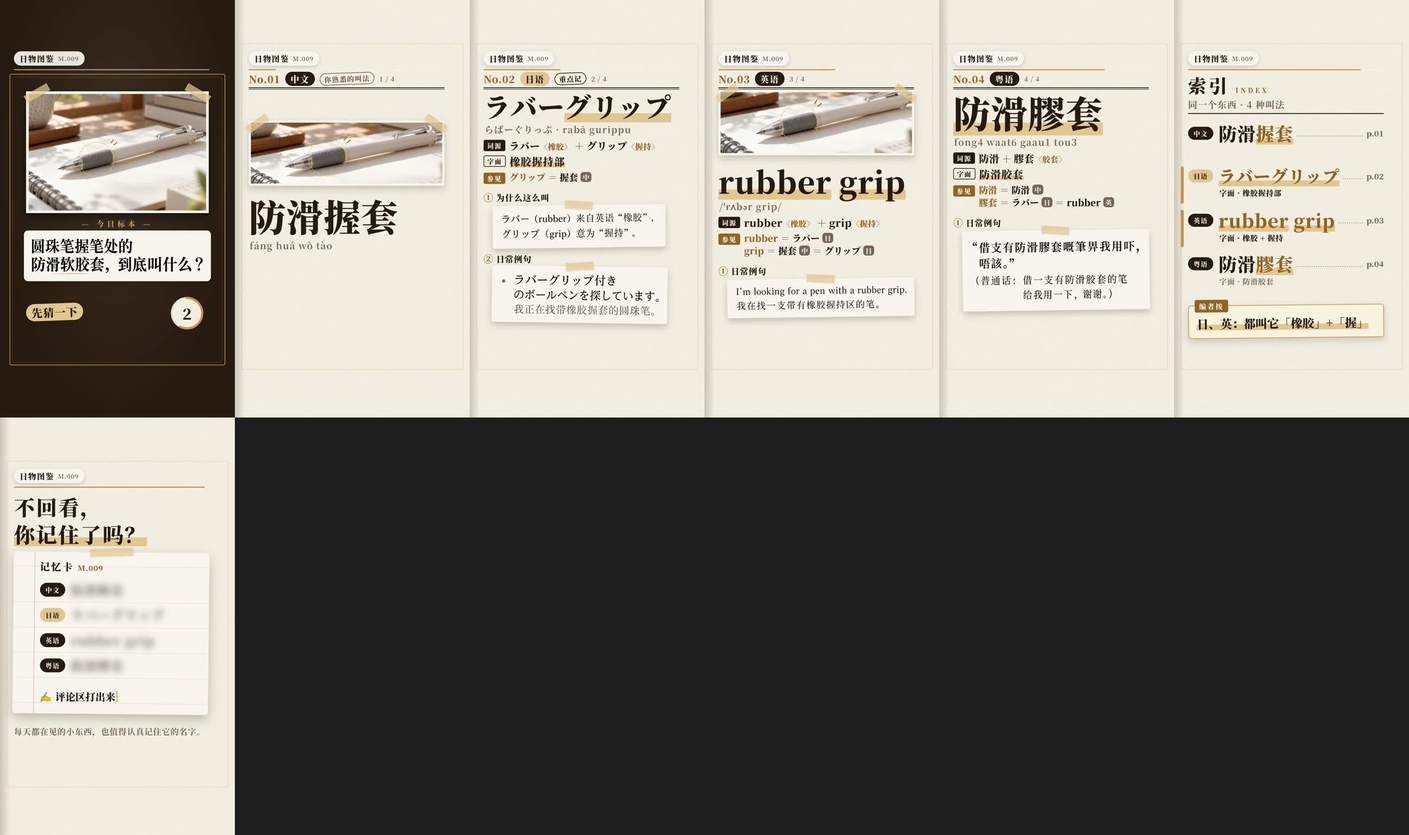
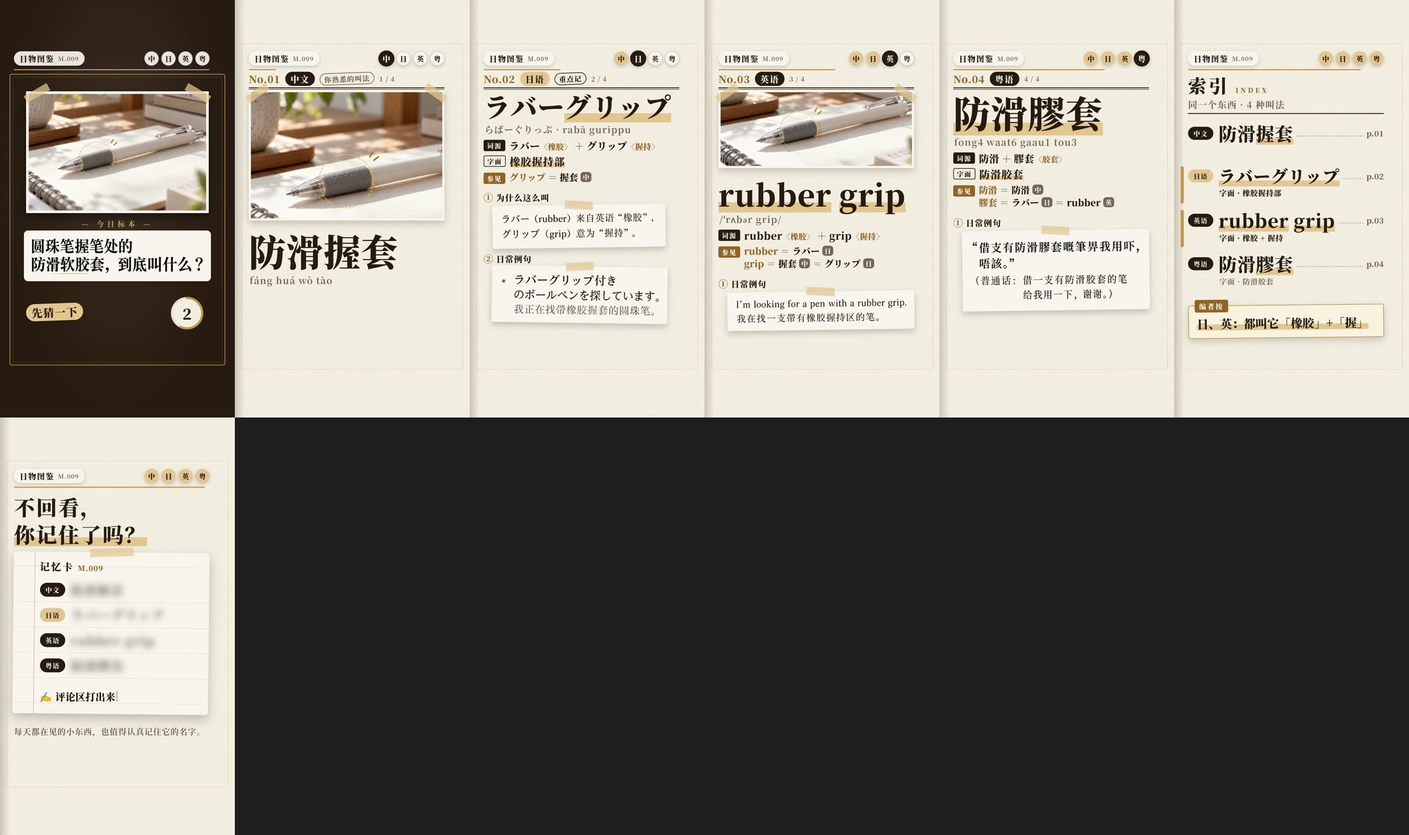
日物图鉴模板 v0.6.1：图鉴式修正——顶栏语言圆点、翻页加长、便利贴揭开不透字、照片自动加高填满下半屏、长名字自动缩字、索引/记忆卡对比度与避让

diff --git a/Claude工作区/riwu-template/src/Film.tsx b/Claude工作区/riwu-template/src/Film.tsx
@@ -564,11 +564,11 @@ const BHook: React.FC<{s: any; plan: Plan; t: number}> = ({s, plan, t}) => {
 const BLang: React.FC<{s: any; plan: Plan; t: number}> = ({s, plan, t}) => {
   const C = plan.style.colors, TX = plan.style.text, L = s.book, Y = L.y, w = s.word;
   // 当前这一步的版面（在相邻两步之间平滑过渡）
-  let lay: any = {...L.lays[0], plateK: L.lays[0].plate ? 1 : 0, clips: L.lays[0].clips.map((c: any) => ({...c, u: c.fold ? 1 : 0}))};
+  let lay: any = {...L.lays[0], ex: L.lays[0].ex || 0, plateK: L.lays[0].plate ? 1 : 0, clips: L.lays[0].clips.map((c: any) => ({...c, u: c.fold ? 1 : 0}))};
   s.steps.forEach((st: any, i: number) => {
     if (i === 0 || t < st.start - 3) return;
     const a = L.lays[i - 1], b = L.lays[i], q = ramp(t, st.start - 3, st.start + 9, inOut);
-    lay = {up: lerp(a.up, b.up, q), plateK: lerp(a.plate ? 1 : 0, b.plate ? 1 : 0, q),
+    lay = {up: lerp(a.up, b.up, q), ex: lerp(a.ex || 0, b.ex || 0, q), plateK: lerp(a.plate ? 1 : 0, b.plate ? 1 : 0, q),
       clips: b.clips.map((c: any, j: number) => ({y: lerp(a.clips[j].y, c.y, q), k: lerp(a.clips[j].k, c.k, q), u: lerp(a.clips[j].fold ? 1 : 0, c.fold ? 1 : 0, q)}))};
   });
   const o = -lay.up;
@@ -579,7 +579,7 @@ const BLang: React.FC<{s: any; plan: Plan; t: number}> = ({s, plan, t}) => {
   const g = ramp(t, 22, 34);
   const rc = s.steps.find((st: any) => st.kind === 'recall');
   const rk = rc ? t - rc.start : -1, inRc = rc && rk >= 0;
-  const covered = inRc && rk >= 8 && rk < rc.t_reveal + 2;  // 便利贴完全盖住时名字不渲染（不会从纸下透出来）
+  const covered = inRc && rk >= 8 && rk < rc.t_reveal;  // 便利贴完全盖住时名字不渲染（不会从纸下透出来）
   const pop = inRc && rk >= rc.t_reveal ? sp(rk - rc.t_reveal, {damping: 9, stiffness: 300}) : 1;
   const parts = L.etym.length ? w.parts : [];
   const z = 1.04 + 0.06 * ramp(t, 0, s.dur, (x) => x);
@@ -592,21 +592,21 @@ const BLang: React.FC<{s: any; plan: Plan; t: number}> = ({s, plan, t}) => {
       <div style={{position: 'absolute', left: 64, top: Y.head, height: 64, display: 'flex', alignItems: 'center', gap: 22, whiteSpace: 'nowrap', opacity: clamp(sp(t + 2) * 2)}}>
         <span style={{fontFamily: SERIF, fontWeight: 900, fontSize: 46, color: C.accent_text, letterSpacing: 2}}>No.{pad2(s.no)}</span>
         <span style={{background: A ? C.accent : C.ink, color: A ? C.ink : C.paper, fontFamily: SERIF, fontWeight: 900, fontSize: 40, padding: '4px 24px', borderRadius: 32, letterSpacing: 4}}>{s.lang}</span>
-        {(A || Bg) && !inRc && <span style={{border: `3px solid ${A ? C.ink : C.sub}`, color: A ? C.ink : C.sub, fontFamily: SERIF, fontWeight: 900, fontSize: 32, padding: '2px 18px', borderRadius: 30, letterSpacing: 3, transform: 'rotate(-2deg)'}}>{A ? TX.answer : TX.bridge}</span>}
+        {(A || Bg) && !(inRc && rk < rc.t_reveal + 6) && <span style={{border: `3px solid ${A ? C.ink : C.sub}`, color: A ? C.ink : C.sub, fontFamily: SERIF, fontWeight: 900, fontSize: 32, padding: '2px 18px', borderRadius: 30, letterSpacing: 3, transform: 'rotate(-2deg)'}}>{A ? TX.answer : TX.bridge}</span>}
         <span style={{fontFamily: SERIF, fontWeight: 700, fontSize: 30, color: C.sub, letterSpacing: 2}}>{s.no} / {s.n}</span>
       </div>
       <div style={{position: 'absolute', left: 64, top: Y.head + 72, width: 900 * ramp(t, -4, 10), height: 4, background: C.ink}} />
       <div style={{position: 'absolute', left: 64, top: Y.head + 80, width: 900 * ramp(t, -2, 12), height: 1.5, background: C.ink}} />
       {/* 标本照片 */}
       {lay.plateK > 0.01 && (
-        <div style={{position: 'absolute', left: 64, top: Y.plate + Math.max(0, o), width: 900, height: 300, opacity: lay.plateK, transform: `scale(${lerp(0.9, 1, lay.plateK)})`, transformOrigin: '50% 0%'}}>
+        <div style={{position: 'absolute', left: 64, top: Y.plate, width: 900, height: 300 + lay.ex, opacity: lay.plateK, transform: `scale(${lerp(0.9, 1, lay.plateK)})`, transformOrigin: '50% 0%'}}>
           <div style={{position: 'absolute', inset: 0, background: C.card, boxShadow: '0 14px 34px rgba(40,24,10,0.22)'}} />
-          <Cover file={s.card} size={s.size} crop={s.photo} box={[10, 10, 880, 280]} focus={s.subject} z={z} />
+          <Cover file={s.card} size={s.size} crop={s.photo} box={[10, 10, 880, 280 + lay.ex]} focus={s.subject} z={z} />
           <Tape x={40} y={14} rot={-35} w={110} /><Tape x={860} y={14} rot={35} w={110} />
         </div>
       )}
       {/* 词条：名字 / 读音 / 词源 / 字面 / 参见 */}
-      <div style={{position: 'absolute', left: 64, top: Y.word + o, opacity: clamp(hp * 2.5) * (covered ? 0 : 1), transform: `scale(${lerp(1.2, 1, hp) * (inRc ? lerp(1.12, 1, pop) : 1)})`, transformOrigin: '0% 50%'}}>
+      <div style={{position: 'absolute', left: 64, top: Y.word + o, opacity: clamp(hp * 2.5) * (covered ? 0 : 1), transform: `scale(${lerp(1.2, 1, hp) * 1})`, transformOrigin: '0% 50%'}}>
         <Word w={w} C={C} fs={w.fs} hl={hlP} g={g} />
       </div>
       {inRc && <Sparks x={120} y={Y.word + o + w.fs * 0.6} f={rk - rc.t_reveal - 4} r={110} color={C.accent2} n={7} spread={26} a0={-120} />}
@@ -617,11 +617,11 @@ const BLang: React.FC<{s: any; plan: Plan; t: number}> = ({s, plan, t}) => {
       {parts.length > 0 && Y.etym != null && (
         <div style={{position: 'absolute', left: 64, top: Y.etym + o, height: 64, display: 'flex', alignItems: 'center', gap: 18, whiteSpace: 'nowrap', opacity: clamp(ep * 2) * (covered ? 0 : 1), transform: `translateX(${-30 * (1 - ep)}px)`}}>
           <span style={{background: C.ink, color: C.paper, fontFamily: SERIF, fontWeight: 900, fontSize: 30, padding: '4px 16px', borderRadius: 8, letterSpacing: 4}}>{TX.book_etym}</span>
-          <span style={{fontFamily: famOf(w.family), fontWeight: 900, fontSize: 46, color: C.ink, letterSpacing: 1}}>
+          <span style={{fontFamily: famOf(w.family), fontWeight: 900, fontSize: L.efs || 46, color: C.ink, letterSpacing: 1}}>
             {parts.map((p: any, i: number) => (
               <React.Fragment key={i}>
                 {i > 0 && <span style={{color: C.sub, margin: '0 10px'}}>＋</span>}
-                <span>{p.t}</span>{p.m && <span style={{fontFamily: SERIF, fontSize: 36, color: C.accent_text}}>〈{p.m}〉</span>}
+                <span>{p.t}</span>{p.m && <span style={{fontFamily: SERIF, fontSize: Math.round((L.efs || 46) * 0.78), color: C.accent_text}}>〈{p.m}〉</span>}
               </React.Fragment>
             ))}
           </span>
@@ -639,7 +639,7 @@ const BLang: React.FC<{s: any; plan: Plan; t: number}> = ({s, plan, t}) => {
           <span style={{marginTop: 9, background: C.accent_text, color: '#fff', fontFamily: SERIF, fontWeight: 900, fontSize: 30, padding: '4px 16px', borderRadius: 8, letterSpacing: 4, opacity: clamp((t - 16) / 6)}}>{TX.book_see}</span>
           <div style={{display: 'flex', flexDirection: 'column', gap: 0}}>
             {s.links.map((l: any, i: number) => (
-              <div key={i} style={{height: 58, display: 'flex', alignItems: 'center', gap: 12, fontFamily: famOf(w.family), fontWeight: 900, fontSize: 42, color: C.ink, opacity: clamp((t - 20 - i * 6) / 6), transform: `translateX(${-30 * (1 - clamp((t - 20 - i * 6) / 8))}px)`}}>
+              <div key={i} style={{height: 58, display: 'flex', alignItems: 'center', gap: 12, fontFamily: famOf(w.family), fontWeight: 900, fontSize: L.lfs || 42, color: C.ink, opacity: clamp((t - 20 - i * 6) / 6), transform: `translateX(${-30 * (1 - clamp((t - 20 - i * 6) / 8))}px)`}}>
                 <span style={{color: C.accent_text}}>{l.t}</span>
                 {l.prev.map((q: any, j: number) => (
                   <React.Fragment key={j}>
@@ -672,8 +672,8 @@ const BLang: React.FC<{s: any; plan: Plan; t: number}> = ({s, plan, t}) => {
             {c.u < 0.99 && (
               <div style={{position: 'absolute', inset: 0, opacity: 1 - c.u, transform: `scaleY(${1 - 0.7 * c.u})`, transformOrigin: `0 ${c.y + 60}px`}}>
                 <BookClip lift={st.lift} x={104} y={c.y + 64} k={c.k} C={C} rot={rot * (1 - c.u)} />
-                {st.note && <div style={{position: 'absolute', left: 104, top: c.y + 64 + bh + 10, width: 860, fontFamily: SERIF, fontWeight: 900, fontSize: 36, lineHeight: 1.35, color: C.ink, opacity: clamp((f - 10) / 8)}}>
-                  <span style={{color: C.accent_text}}>注　</span>{st.note}</div>}
+                {st.note && <div style={{position: 'absolute', left: 104, top: c.y + 64 + bh + 10, width: 860, display: 'flex', gap: 14, fontFamily: SERIF, fontWeight: 900, fontSize: 36, lineHeight: 1.35, color: C.ink, opacity: clamp((f - 10) / 8)}}>
+                  <span style={{color: C.accent_text, flex: 'none'}}>注</span><span>{st.note}</span></div>}
               </div>
             )}
           </div>
@@ -684,8 +684,8 @@ const BLang: React.FC<{s: any; plan: Plan; t: number}> = ({s, plan, t}) => {
         const dp = sp(rk, {damping: 12, stiffness: 240});
         const pk = ramp(rk, rc.t_reveal, rc.t_reveal + 12, (x) => x * x);
         return (
-          <div style={{position: 'absolute', left: 50, top: noteTop, width: 930, height: noteH, opacity: clamp(dp * 2) * (1 - pk),
-            transform: `translate(${700 * pk}px, ${-160 * pk + 60 * (1 - dp)}px) rotate(${lerp(-4, -0.8, dp) + 18 * pk}deg)`, transformOrigin: '100% 0%'}}>
+          <div style={{position: 'absolute', left: 50, top: noteTop, width: 930, height: noteH, opacity: clamp(dp * 2) * (1 - ramp(pk, 0.55, 0.9, (x) => x)),  // 揭走时不变透明（不会隔着纸看到名字）
+            transform: `translate(${1150 * pk}px, ${-220 * pk + 60 * (1 - dp)}px) rotate(${lerp(-4, -0.8, dp) + 22 * pk}deg)`, transformOrigin: '100% 0%'}}>
             <div style={{position: 'absolute', inset: 0, background: '#F3DDA6', boxShadow: '0 18px 40px rgba(40,24,10,0.30)', borderRadius: 4}} />
             <div style={{position: 'absolute', inset: 0, display: 'flex', alignItems: 'center', justifyContent: 'center', fontFamily: SERIF, fontWeight: 900, fontSize: 66, color: C.ink, letterSpacing: 4, flexDirection: 'column', gap: 10}}><span style={{fontSize: 150, color: C.accent_text, lineHeight: 1}}>？</span><span>{TX.recall}</span></div>
             <Tape x={465} y={4} w={180} rot={-2} />
@@ -725,7 +725,7 @@ const BRecap: React.FC<{s: any; plan: Plan; t: number}> = ({s, plan, t}) => {
             <div style={{position: 'absolute', left: 64, top: y + wh / 2 - 30, width: 116, height: 60, borderRadius: 30, background: it.anchor ? C.accent : C.ink, color: it.anchor ? C.ink : C.paper,
               fontFamily: SERIF, fontWeight: 900, fontSize: 30, letterSpacing: 3, display: 'flex', alignItems: 'center', justifyContent: 'center'}}>{it.lang}</div>
             <div style={{position: 'absolute', left: 204, top: y, width: 760, height: wh, display: 'flex', alignItems: 'center', gap: 14}}>
-              <Word w={it.word} C={C} fs={it.bfs} hl={it.hlp} g={gw} tint />
+              <Word w={it.word} C={C} fs={it.bfs} hl={it.hlp} g={gw} />
               <div style={{flex: 1, alignSelf: 'center', marginTop: wh * 0.25, borderBottom: `5px dotted ${C.sub}88`}} />
               <span style={{fontFamily: SERIF, fontWeight: 900, fontSize: 36, color: C.sub, whiteSpace: 'nowrap'}}>p.{pad2(i + 1)}</span>
             </div>
@@ -783,11 +783,11 @@ const BOutro: React.FC<{s: any; plan: Plan; t: number}> = ({s, plan, t}) => {
           <div key={i} style={{position: 'absolute', inset: 0, opacity: clamp(p * 2), transform: `translateY(${24 * (1 - p)}px)`}}>
             <div style={{position: 'absolute', left: 184, top: y + 10, width: 116, height: 64, borderRadius: 32, background: it.anchor ? C.accent : C.ink, color: it.anchor ? C.ink : C.paper,
               fontFamily: SERIF, fontWeight: 900, fontSize: 30, letterSpacing: 3, display: 'flex', alignItems: 'center', justifyContent: 'center'}}>{it.lang}</div>
-            <div style={{position: 'absolute', left: 324, top: y, height: 84, display: 'flex', alignItems: 'center', fontFamily: famOf(it.word.family), fontWeight: 900, fontSize: it.ofs, color: C.ink, whiteSpace: 'nowrap', letterSpacing: 2}}>
+            <div style={{position: 'absolute', left: 324, top: y, height: 84, display: 'flex', alignItems: 'center', fontFamily: famOf(it.word.family), fontWeight: 900, fontSize: it.bofs || it.ofs, color: C.ink, whiteSpace: 'nowrap', letterSpacing: 2}}>
               <span style={{filter: `blur(${14 * (1 - rv)}px)`, opacity: lerp(0.55, 1, rv)}}>{it.word.text}</span>
             </div>
             {sp2 > 0 && <div style={{position: 'absolute', left: 860, top: y + 4, width: 76, height: 76, borderRadius: 38, border: `5px solid ${C.accent_text}`, color: C.accent_text, boxSizing: 'border-box',
-              display: 'flex', alignItems: 'center', justifyContent: 'center', fontFamily: SERIF, fontWeight: 900, fontSize: 44, opacity: clamp(sp2 * 2) * 0.9, transform: `scale(${lerp(1.8, 1, sp2)}) rotate(-12deg)`}}>✓</div>}
+              display: 'flex', alignItems: 'center', justifyContent: 'center', fontFamily: SERIF, fontWeight: 900, fontSize: 44, opacity: clamp(sp2 * 2), transform: `scale(${lerp(1.8, 1, sp2)}) rotate(-12deg)`}}>✓</div>}
           </div>
         );
       })}
@@ -837,7 +837,7 @@ export const Film: React.FC<Plan> = (plan) => {
       {plan.scenes.map((s: any, i: number) => {
         const Comp = ({hook: Hook, lang: Lang, recap: Recap, outro: Outro, quiz: Quiz, flash_q: FlashQ, flash: Flash, flash_sum: FlashSum, b_hook: BHook, b_lang: BLang, b_recap: BRecap, b_outro: BOutro} as any)[s.type];
         const first = i === 0, last = i === n - 1;
-        const Ti = s.cut ? 0 : T;
+        const Ti = s.cut ? 0 : (s.flipT || T);  // 图鉴式翻页比推镜长一点，看得出是在翻书
         return (
           <Sequence key={i} from={first ? 0 : s.start - Ti} durationInFrames={s.dur + (first ? 0 : Ti)} layout="none">
             <Shell T={Ti} dur={s.dur} first={first} last={last} flip={!!s.flip}>{(t) => <Comp s={s} plan={plan} t={t} />}</Shell>

diff --git a/Claude工作区/riwu-template/scripts/prepare.py b/Claude工作区/riwu-template/scripts/prepare.py
@@ -764,7 +764,7 @@ def main(epdir, fmt=None, name=None):
     if fmt != "reveal":
         scenes, events, f, hud_dots = reformat(fmt, ep, epdir, scenes, B, L["transition"], events)
         if errors: finish(build, None, inputs); return
-        ls_ = [s for s in scenes if s["type"] in ("lang", "flash")]
+        ls_ = [s for s in scenes if s["type"] in ("lang", "flash", "b_lang")]  # 顶栏语言圆点
     # ---- 安全区：y>1000 时右侧按钮列（x>966）不放内容；底部 y>1600 是文案区 ----
     for sc in scenes:
         if sc["type"].startswith("b_"): continue  # 图鉴式自己排版、自己检查（book_layout）
@@ -782,7 +782,7 @@ def main(epdir, fmt=None, name=None):
     qc_lifts(build, plan)
 
 # ---------------- 图鉴式（book）：信息量和讲解式一样，排成一本博物图鉴 ----------------
-BK = {"top": 330, "plate_h": 300, "lim": 1580, "x0": 64, "clip_x": 104, "clip_w": 860, "label_h": 60, "gap": 26, "fold_h": 64, "note_h": 64}
+BK = {"top": 330, "plate_h": 300, "lim": 1580, "x0": 64, "clip_x": 104, "clip_w": 860, "label_h": 60, "gap": 26, "fold_h": 64, "note_h": 64, "flip_t": 16}  # flip_t：翻一页用 16 帧（0.53 秒）
 
 def book_layout(s):
     """一个语言词条页：每一步（名字 / 每块重点 / 回忆）各算一套位置。
@@ -800,12 +800,24 @@ def book_layout(s):
     if s["links"]: hy["links"] = y + 6; y += 12 + 58 * len(s["links"])
     hy["end"] = y
     head_end = y + 30
+    # 词源 / 参见 行按实际字宽自动缩字（三段以上的名字，如 coffee＋cup＋sleeve，46px 会出右边）
+    reg = w["family"].split()[-1]; W = 820  # 量宽和实际排字有约 8% 误差，留余量
+    def ew(f):
+        return 118 + sum(tw(p["t"], "Black", reg, f) + (tw("〈" + p["m"] + "〉", "Black", "SC", f * 0.78) if p.get("m") else 0) for p in w["parts"]) + (len(w["parts"]) - 1) * (tw("＋", "Black", "SC", f) + 20)
+    efs = 46
+    while etym and efs > 32 and ew(efs) > W: efs -= 2
+    if etym and ew(efs) > W: warns.append(f"图鉴式 {s['short']}: 词源一行放不下（{ew(efs):.0f}px）")
+    def lw(f):
+        return max([118 + tw(l["t"], "Black", reg, f) + sum(tw("＝", "Black", "SC", f) + tw(q["t"], "Black", reg, f) + 50 + 36 for q in l["prev"]) for l in s["links"]] or [0])
+    lfs = 42
+    while lfs > 32 and lw(lfs) > W: lfs -= 2
+    if lw(lfs) > W: warns.append(f"图鉴式 {s['short']}: 参见一行放不下（{lw(lfs):.0f}px）")
     clips = []
     for st in s["steps"]:
         if st.get("lift"):
             pw, ph = st["lift"]["panel"][2], st["lift"]["panel"][3]
             k = min(1.0, BK["clip_w"] / pw)
-            clips.append({"k": k, "h": ph, "note": bool(st.get("note"))})
+            clips.append({"k": k, "h": ph, "note": bool(st.get("note")), "px": st["lift"].get("text_px", 50), "nm": st["kind"]})
     def blk(c, k=None, fold=False):
         if fold: return BK["fold_h"] + 14
         return BK["label_h"] + c["h"] * (k or c["k"]) + (BK["note_h"] if c["note"] else 0) + BK["gap"]
@@ -826,10 +838,11 @@ def book_layout(s):
             i = vis[-1]; over = bottom() - BK["lim"]
             kk[i] = max(0.62, kk[i] - over / clips[i]["h"])
             if bottom() > BK["lim"]: warns.append(f"图鉴式 {s['short']}.{st['kind']}: 重点块太高，缩到 {kk[i]:.2f} 倍仍放不下（框少一点）")
+        if vis and kk[vis[-1]] * clips[vis[-1]]["px"] < 34:
+            warns.append(f"图鉴式 {s['short']}.{st['kind']}: 剪报缩小后正文只有 {kk[vis[-1]] * clips[vis[-1]]['px']:.0f}px（框少一点）")
         up = 0 if plate else BK["plate_h"] + 36
-        dy = 0
-        if not vis:  # 只有名字：整组稍往下放，别都挤在上半屏
-            dy = int(min(140, max(0, (BK["lim"] - head_end) * 0.35)))
+        # 页面下方有空：把标本照片放大（最多再高 300），词条和剪报整体下移，不让下半屏空着
+        dy = int(min(300, max(0, BK["lim"] - bottom() - 40))) if plate else 0
         yy = head_end - up + dy
         cl = []
         for i in range(len(clips)):
@@ -837,8 +850,8 @@ def book_layout(s):
                 cl.append({"y": round(yy), "k": round(kk[i], 4), "fold": i in fold}); yy += blk(clips[i], kk[i], i in fold)
             else:
                 cl.append({"y": round(yy + 80), "k": clips[i]["k"], "fold": False})
-        lays.append({"plate": plate, "up": up - dy, "clips": cl})
-    return {"y": {k: round(v) for k, v in hy.items()}, "lays": lays, "etym": etym}
+        lays.append({"plate": plate, "up": up - dy, "ex": dy, "clips": cl})
+    return {"y": {k: round(v) for k, v in hy.items()}, "lays": lays, "etym": etym, "efs": efs, "lfs": lfs}
 
 def book(ep, scenes, B, events0):
     out = []
@@ -847,9 +860,9 @@ def book(ep, scenes, B, events0):
     for sc in scenes:
         t = sc["type"]
         if t == "hook":
-            out.append(dict(sc, type="b_hook", flip=True, n=n))
+            out.append(dict(sc, type="b_hook", flip=True, flipT=BK["flip_t"], n=n))
         elif t == "lang":
-            out.append(dict(sc, type="b_lang", flip=True, book=book_layout(sc), n=n, no=sc["index"] + 1))
+            out.append(dict(sc, type="b_lang", flip=True, flipT=BK["flip_t"], book=book_layout(sc), n=n, no=sc["index"] + 1))
         elif t == "recap":
             its = []
             for it in sc["items"]:
@@ -858,9 +871,13 @@ def book(ep, scenes, B, events0):
             step = int(min(200, 900 / max(1, n)))
             ins = sc["insight"] or ""
             ifs = int(max(44, min(60, 820 / max(1, (tw(ins, "Black", "SC", 100) + 32) / 100))))
-            out.append(dict(sc, type="b_recap", flip=True, items=its, step=step, ifs=ifs))
+            out.append(dict(sc, type="b_recap", flip=True, flipT=BK["flip_t"], items=its, step=step, ifs=ifs))
         elif t == "outro":
-            out.append(dict(sc, type="b_outro", flip=True))
+            its = []
+            for it in sc["items"]:  # 记忆卡：名字右边要给 ✓ 章留位置（名字区宽 500）
+                reg = it["word"]["family"].split()[-1]
+                its.append(dict(it, bofs=int(min(60, 500 / max(1, (tw(it["word"]["text"], "Black", reg, 100) + 2 * len(it["word"]["text"])) / 100)))))
+            out.append(dict(sc, type="b_outro", flip=True, flipT=BK["flip_t"], items=its))
     return out
 
 def reformat(fmt, ep, epdir, scenes, B, TR, events0=None):

diff --git a/Claude工作区/riwu-template/docs/画面结构与时间线.md b/Claude工作区/riwu-template/docs/画面结构与时间线.md
@@ -73,10 +73,10 @@ x  964 以右  平台按钮列（y 1000–1600）：不放内容
 │ 封面 │ 中   │ 日（主讲 + 回忆）   │ 英       │ 粤       │ 索引    │ 记忆卡   │
 ```
 
-- **时间线、每一步的起止、声音事件和讲解式完全相同**（prepare.py 直接沿用讲解式算好的场景，只把类型换成 `b_hook / b_lang / b_recap / b_outro`）。换场是翻书页：旧页以左边为轴翻走，新页在下面从暗到亮。
+- **时间线、每一步的起止、声音事件和讲解式完全相同**（prepare.py 直接沿用讲解式算好的场景，只把类型换成 `b_hook / b_lang / b_recap / b_outro`）。换场是翻书页（16 帧 ≈ 0.5 秒）：旧页以左边为轴翻走，新页在下面从暗到亮。顶栏的「中 日 英 …」语言圆点照常显示。
 - **封面**：深色底 + 金色双线框；镶框标本照片（白边、胶带）先推近再拉开；下方「— 今日标本 —」和问题切片；第 3 拍「先猜一下」+ 圆环倒数。
-- **词条页**（每种语言一页）：页眉「No.0N + 语言章 + 重点记/你熟悉的叫法 + N/总数」+ 双线；标本照片（高 300）；名字（原生排字，跨语言同词根的段画金色底线）；读音；「词源」行（`parts` 用「＋」连起来，〈〉里是 `parts[].m`）；「字面」行（`meaning`）；「参见」行（又见面了：这一段 ＝ 前面哪种语言的哪一段）。
-- **重点**：每一步一块剪报：「① 标签」+ 原图切片（宽 ≤860，胶带、轻微倾斜）+ 注（`note`）。剪报一块块累积。放不下（底线 y=1580）时按顺序：① 先收起标本照片（整组上移 336）；② 再把前面读过的剪报折成一行「① 标签」；③ 最后才把当前剪报缩小（最小 0.62 倍，还放不下会 ⚠）。只有名字的那一步整组下移最多 140，不挤在上半屏。
-- **回忆**（主讲语言最后一步）：剪报全部折起（里面有答案），标本照片放回来当提示；一张便利贴盖住整条词条「？ 还记得它叫什么吗？」，到 `t_reveal` 时揭走，名字弹一下 + 放射短线。
+- **词条页**（每种语言一页）：页眉「No.0N + 语言章 + 重点记/你熟悉的叫法 + N/总数」+ 双线；标本照片（基础高 300；页面下方有空时自动加高，最多 600，内容整体下移，下半屏不空着）；名字（原生排字，跨语言同词根的段画金色底线）；读音；「词源」行（`parts` 用「＋」连起来，〈〉里是 `parts[].m`；三段以上的长名字按宽度自动缩字 46→32px）；「字面」行（`meaning`）；「参见」行（又见面了：这一段 ＝ 前面哪种语言的哪一段）。
+- **重点**：每一步一块剪报：「① 标签」+ 原图切片（宽 ≤860，胶带、轻微倾斜）+ 注（`note`）。剪报一块块累积。放不下（底线 y=1580）时按顺序：① 先收起标本照片（整组上移 336）；② 再把前面读过的剪报折成一行「① 标签」；③ 最后才把当前剪报缩小（最小 0.62 倍，还放不下会 ⚠）。缩小后正文不足 34px 会 ⚠。
+- **回忆**（主讲语言最后一步）：剪报全部折起（里面有答案），标本照片放回来当提示；一张便利贴盖住整条词条「？ 还记得它叫什么吗？」，到 `t_reveal` 时整张（不变透明）揭走，名字 + 放射短线；「重点记」标签回来。**只有主讲语言有回忆**，和讲解式一样。
 - **索引页**：「索引 INDEX」+ `head`；每行 语言章 + 名字（≤84px，按 560px 适配）+ 点线 + 「p.0N」+「字面 · …」；到 `t_insight` 时同词根的段变金、相关行左边贴金色书签，下方「编者按」框里是 `insight`（44–60px，按 820px 宽适配）。
-- **记忆卡**：「不回看，/ 你记住了吗？」→ 横线卡片「记忆卡 M.009」，每行语言章 + 模糊的名字 → 评论框打字 → `t_reveal` 时逐行变清楚并盖 ✓ 章 → tagline。
+- **记忆卡**：「不回看，/ 你记住了吗？」→ 横线卡片「记忆卡 M.009」，每行语言章 + 模糊的名字（名字区宽 500，长名字自动缩字，不压 ✓ 章） → 评论框打字 → `t_reveal` 时逐行变清楚并盖 ✓ 章 → tagline。

diff --git a/Claude工作区/riwu-template/CHANGELOG.md b/Claude工作区/riwu-template/CHANGELOG.md
@@ -1,6 +1,6 @@
 # 更新记录
 
-## v0.6（当前）
+## v0.6.1（当前）
 
 **新增图鉴式（`--format book`）**：信息量、时间线和讲解式完全一样（每种语言的名字/读音/拆段、所有重点切片、又见面了、主讲语言回忆、复盘 + 发现、结尾回忆），只把画面换成一本博物图鉴：深色封面 → 翻书页 → 每种语言一页词条（重点像剪报一样贴上来）→ 索引页 + 编者按 → 记忆卡。不需要多画框。
 
@@ -16,7 +16,18 @@
 | 6 | 翻到记忆卡页时前 10 帧是空白页 | 卡片翻到时就已在页上 |
 | 7 | 每次翻页的第 1 帧，新页先盖住了旧页（闪一帧）；自检报「疑似空画面」 | 翻页开始前旧页就放到上层 |
 
-未做：没有试听配乐（沿用讲解式的声音事件）；只完整渲染了 M009。
+| 8 | 顶栏「中 日 英 粤」语言圆点不显示 | 图鉴式的语言页也算进顶栏 |
+| 9 | 翻页只有 8 帧（0.27 秒），像闪一下 | 翻页加长到 16 帧（0.53 秒）；时间线不变 |
+| 10 | 便利贴揭走时边飞边变透明，能隔着纸看到名字 | 揭走时保持不透明，飞出一半后才淡出 |
+| 11 | 只有名字时下半屏空着 | 有空位时标本照片自动加高（最多 +300） |
+| 12 | 揭晓后「重点记」标签不回来 | 揭晓后恢复 |
+| 13 | M006/M005 三段名字（coffee＋cup＋sleeve、air＋vent＋hole）的词源行出右边、进按钮列 | 词源/参见行按字宽自动缩字（留 8% 余量） |
+| 14 | 揭晓时名字放大 1.12 倍，长名字会进按钮列 | 去掉放大，只留放射短线 |
+| 15 | 记忆卡长名字（die Kaffeemanschette）压住 ✓ 章；✓ 章半透明对比度不够 | 名字按 500px 宽缩字；章不透明 |
+| 16 | 索引页金色字压金色高亮，对比度 2.8 | 索引页名字改深色字 + 金色底线 |
+
+检查范围：M009 完整渲染；M004 / M005 / M006 每一步都抽帧跑了自动版面检查；另外人为把页面底线压到 1250 测了「折起旧剪报 + 缩小当前剪报」这条路径。
+未做：没有试听配乐（沿用讲解式的声音事件）。
 
 ## v0.5
 

diff --git a/Claude工作区/riwu-template/README.md b/Claude工作区/riwu-template/README.md
@@ -1,4 +1,4 @@
-# 日物图鉴 · 多语言物件讲解视频模板 v0.6
+# 日物图鉴 · 多语言物件讲解视频模板 v0.6.1
 
 输入：一组图卡（封面提问 + 每种语言一张 + 结尾互动）+ 一份 `episode.json`（只有区域框，不转写文字）
 输出：1080×1920 / 30fps / H.264 + AAC 的竖版 MP4 + 自检报告。**同一份 `episode.json` 可以出四种版式**，不用重新画框：
